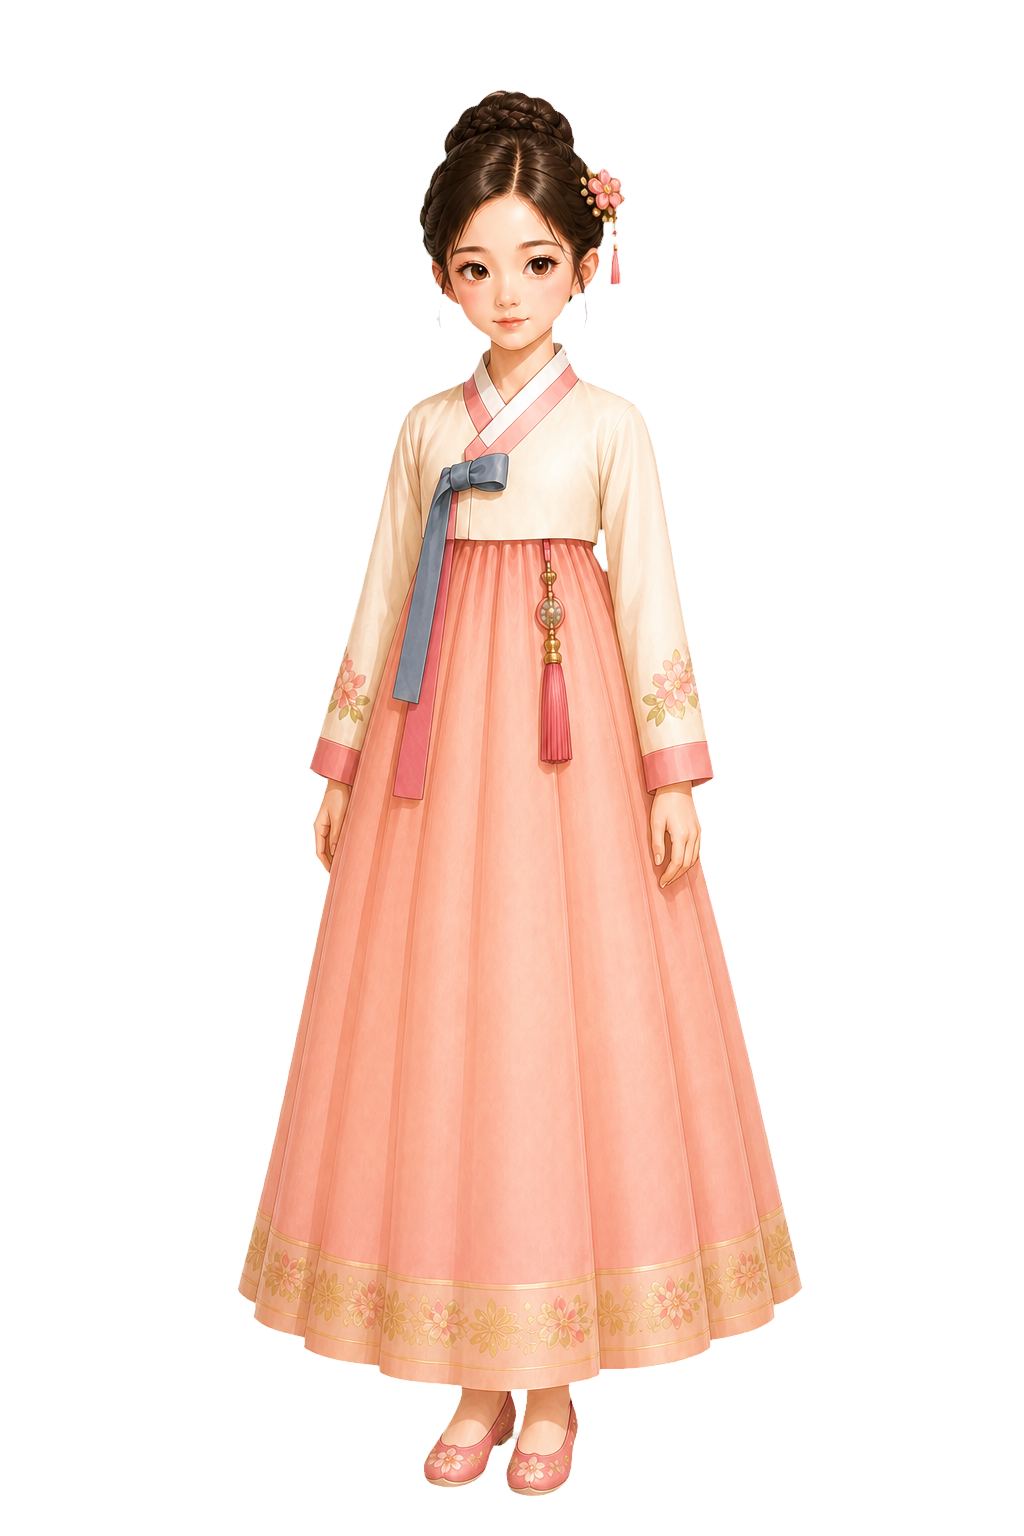
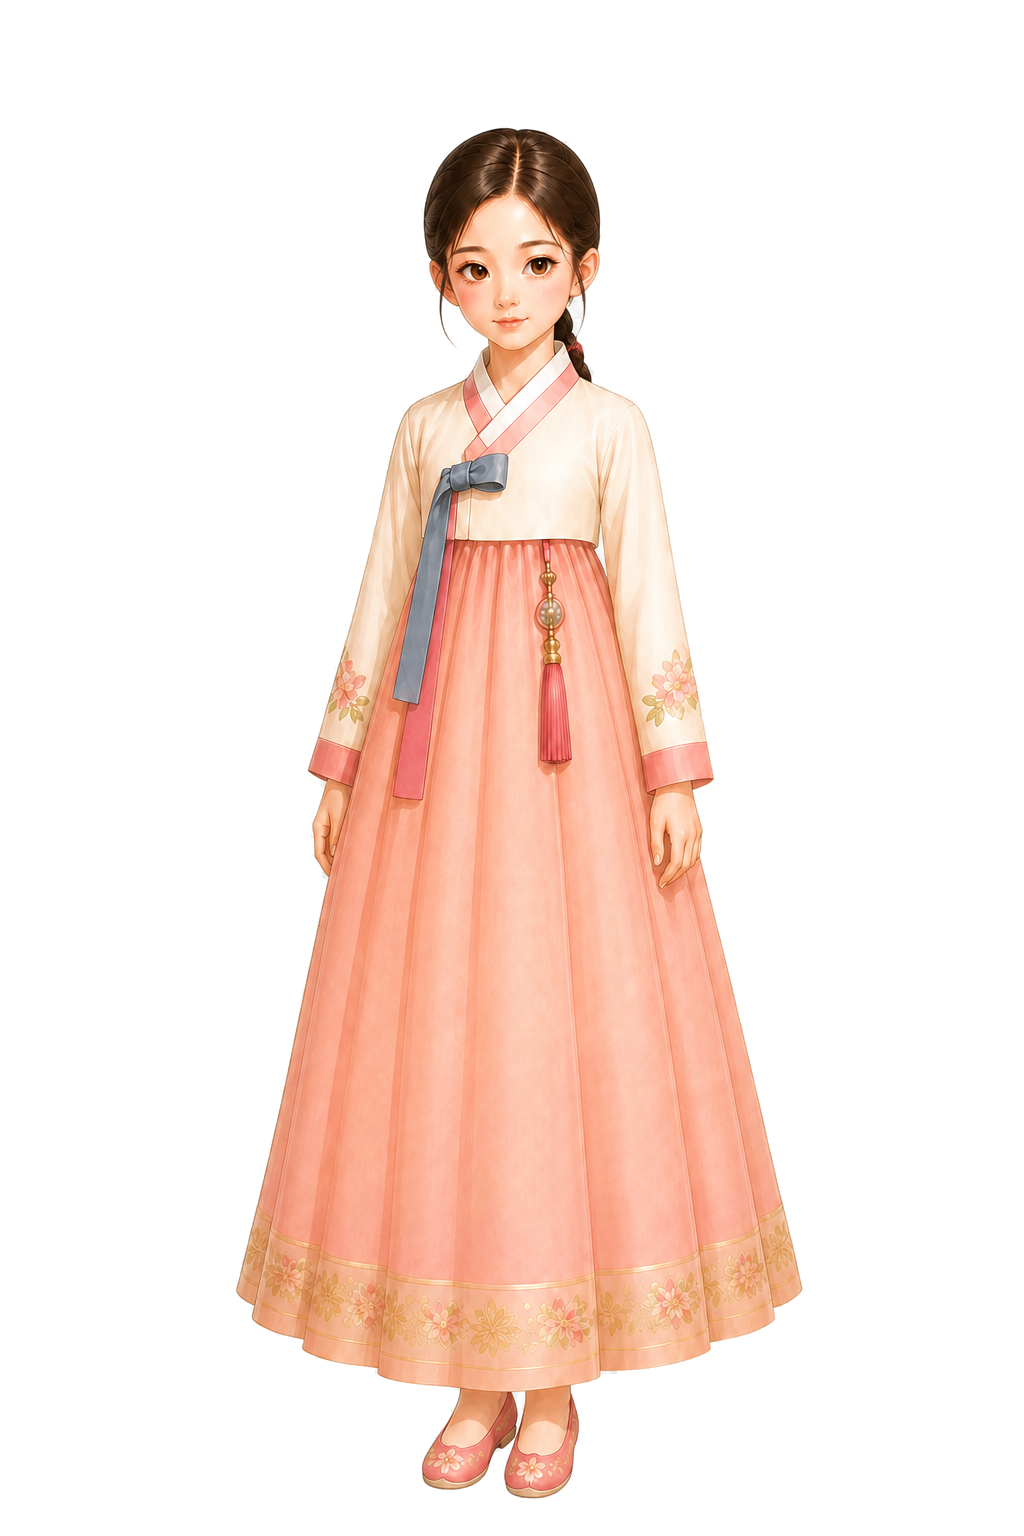
fix: unify home hairstyle across ages

diff --git a/src/index.html b/src/index.html
@@ -4,8 +4,8 @@
   <meta charset="utf-8">
   <meta name="viewport" content="width=device-width,initial-scale=1,viewport-fit=cover">
   <title>선화공주 만들기 — 자산 로딩 테스트</title>
-  <link rel="stylesheet" href="style.css?v=0.64.215-debug">
-  <link rel="stylesheet" href="schedule.css?v=0.64.215-debug">
+  <link rel="stylesheet" href="style.css?v=0.64.216-debug">
+  <link rel="stylesheet" href="schedule.css?v=0.64.216-debug">
   <link rel="stylesheet" href="schedule-pm2.css?v=0.64.18-debug">
   <link rel="stylesheet" href="birthday.css?v=0.64.153-debug">
   <link rel="stylesheet" href="prologue.css?v=0.64.18-debug">
@@ -48,7 +48,7 @@
       </div>
       <span class="loading-caption">이야기를 열 준비가 되었어요</span>
       <button class="studio-start-sound" id="studioStartSound" type="button">인연의 문을 열기</button>
-      <small class="loading-version" aria-label="현재 게임 버전">v0.64.215-debug</small>
+      <small class="loading-version" aria-label="현재 게임 버전">v0.64.216-debug</small>
     </section>
     <section class="prologue" id="prologue" aria-label="이야기 시작 영상" hidden>
       <audio id="prologueMusic" src="../assets/audio/music/prologue-lantern-and-dawn.mp3" preload="auto" loop></audio>
@@ -257,6 +257,6 @@
       </div>
     </section>
   </main>
-  <script src="schedule-layer-manifests.js?v=0.64.215-debug"></script><script src="story-data.js?v=0.64.18-debug"></script><script src="app.js?v=0.64.215-debug"></script>
+  <script src="schedule-layer-manifests.js?v=0.64.216-debug"></script><script src="story-data.js?v=0.64.18-debug"></script><script src="app.js?v=0.64.216-debug"></script>
 </body>
 </html>

diff --git a/src/app.js b/src/app.js
@@ -246,7 +246,7 @@ const vacationIllustrations=[
 function unifiedAgeFolder(){return '09';}
 function scheduleFramePath(file){return `../assets/characters/seonhwa/schedule-actions/${file}`;}
 function scheduleBasePath(file){return `../assets/characters/seonhwa/schedule-base/${file}`;}
-const scheduleAssetRevision='0.64.215-debug';
+const scheduleAssetRevision='0.64.216-debug';
 const scheduleQaParams=new URLSearchParams(location.search);
 const moonlightStandaloneQa=scheduleQaParams.get('qaHoliday')==='chuseok';
 const sehwaStandaloneQa=scheduleQaParams.get('qaHoliday')==='seollal';

diff --git a/tools/remove_home_character_bg.py b/tools/remove_home_character_bg.py
@@ -1,3 +1,4 @@
+import argparse
 from collections import deque
 from pathlib import Path
 
@@ -22,7 +23,11 @@ def is_background(pixel: tuple[int, int, int, int]) -> bool:
 
 
 def main() -> None:
-    image = Image.open(SOURCE).convert("RGBA")
+    parser = argparse.ArgumentParser()
+    parser.add_argument("source", nargs="?", type=Path, default=SOURCE)
+    parser.add_argument("target", nargs="?", type=Path, default=TARGET)
+    args = parser.parse_args()
+    image = Image.open(args.source).convert("RGBA")
     width, height = image.size
     pixels = image.load()
     seen: set[tuple[int, int]] = set()
@@ -54,9 +59,9 @@ def main() -> None:
         enqueue(x, y + 1)
         enqueue(x, y - 1)
 
-    TARGET.parent.mkdir(parents=True, exist_ok=True)
-    image.save(TARGET)
-    print(TARGET)
+    args.target.parent.mkdir(parents=True, exist_ok=True)
+    image.save(args.target)
+    print(args.target)
 
 
 if __name__ == "__main__":
